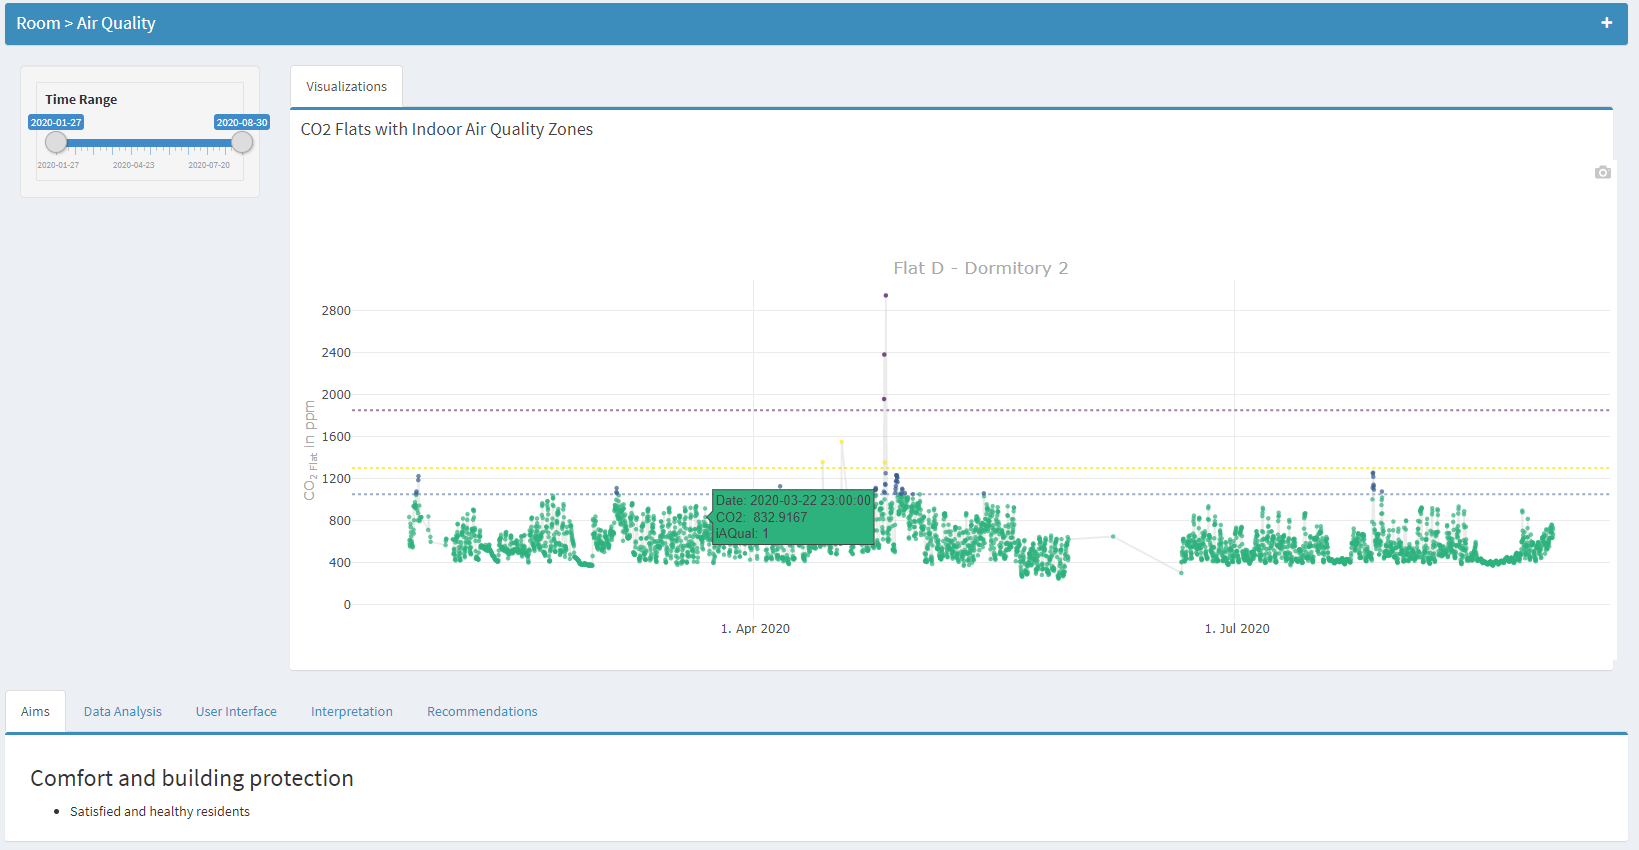
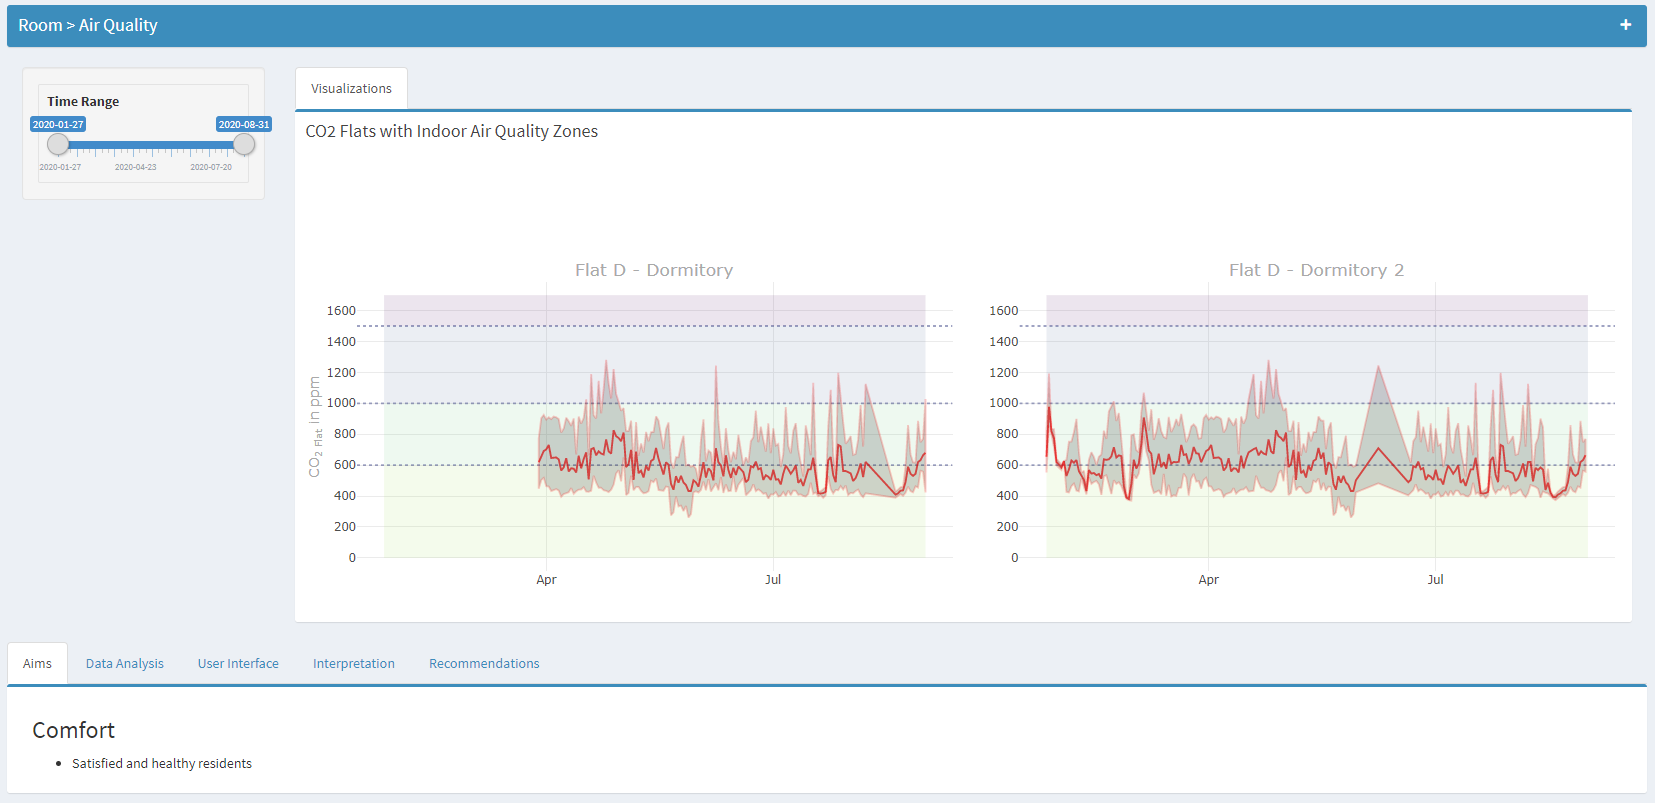
documentation update

diff --git a/docs/docs/modules/roomAirQuality/interpretation.md b/docs/docs/modules/roomAirQuality/interpretation.md
@@ -6,10 +6,18 @@ parent: Room > Air Quality
 grand_parent: Modules
 ---
 
-### Title
-#### Subtitle
-- content tbd <a href="#referencename">[1]</a>
+### General <a href="#nachhaltigebueros">[2]</a>
+Today, CO2 is one of the most important indicators for evaluating the air quality in office buildings.
+Since humans produce CO2 by breathing and release it into the air, the CO2 content in occupied, unventilated rooms increases rapidly.
+With increasing CO2 concentration, room users experience odorous complaints and, with significantly increased CO2 concentration, even health problems (concentration disorders, headaches, dizziness, etc.). 
+
+### Thresholds <a href="#nachhaltigebueros">[2]</a>
+In Switzerland, the Swiss Accident Insurance Institution is generally responsible for health-related limit values at the workplace [1].
+The SUVA publishes an annual report entitled "Occupational Exposure Limits", which also includes the maximum workplace concentration values (MAK values).
+These are limit values that are intended to ensure health protection but not comfort: While the SUVA sets 5'000 ppm (parts per million) as MAK value for carbon dioxide, the guideline to the regulation 3 of the labor law states: "Good indoor air is given if the total concentration of 1'000 ppm CO2 is not exceeded over the period of use of the room.
+
 
 <hr>
 ### References
-<a id="referencename">[1]</a> referende <br>
+<a id="suva">[1]</a> [SUVA: Grenzwerte am Arbeitsplatz](https://www.suva.ch/de-CH/material/Richtlinien-Gesetzestexte/grenzwerte-am-arbeitsplatz-aktuelle-werte#gnw-location=%2F) <br>
+<a id="nachhaltigebueros">[2]</a> [http://www.nachhaltigebueros.ch/node/119](http://www.nachhaltigebueros.ch/node/119)

diff --git a/docs/docs/modules/roomAirQuality/dataanalysis.md b/docs/docs/modules/roomAirQuality/dataanalysis.md
@@ -11,4 +11,7 @@ grand_parent: Modules
 - hourly values desirable
 
 ### Calculations
-- hourly mean value
+- calculate daily statistics
+  - average value
+  - upper quantile 0.95
+  - lower quantile 0.05)

diff --git a/docs/docs/modules/roomAirQuality/aims.md b/docs/docs/modules/roomAirQuality/aims.md
@@ -6,5 +6,5 @@ parent: Room > Air Quality
 grand_parent: Modules
 ---
 
-### Comfort and building protection
+### Comfort
 - Satisfied and healthy residents
